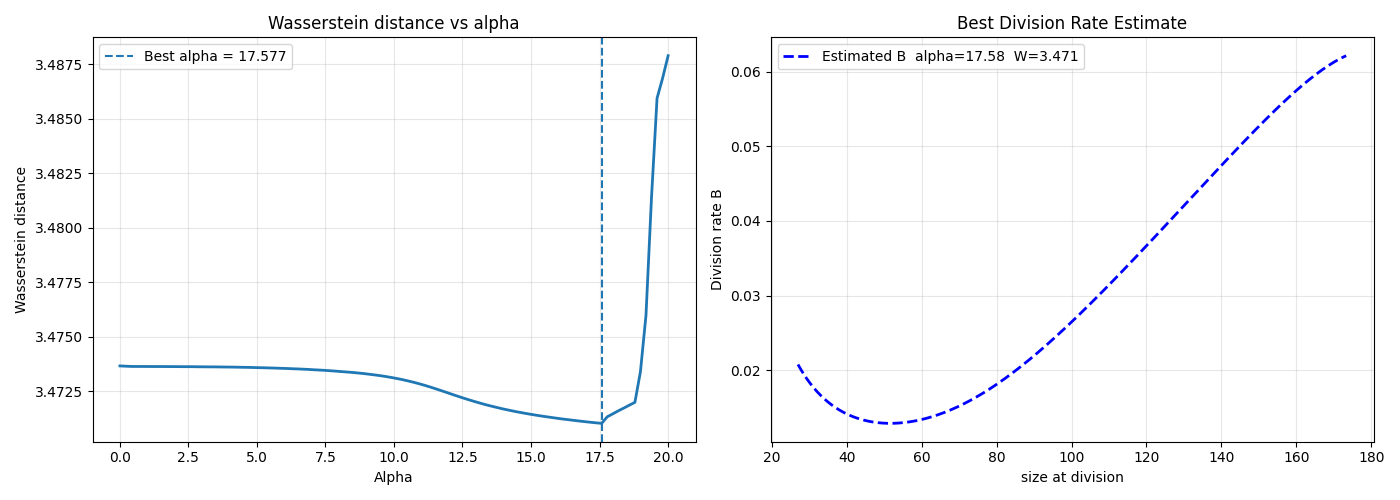
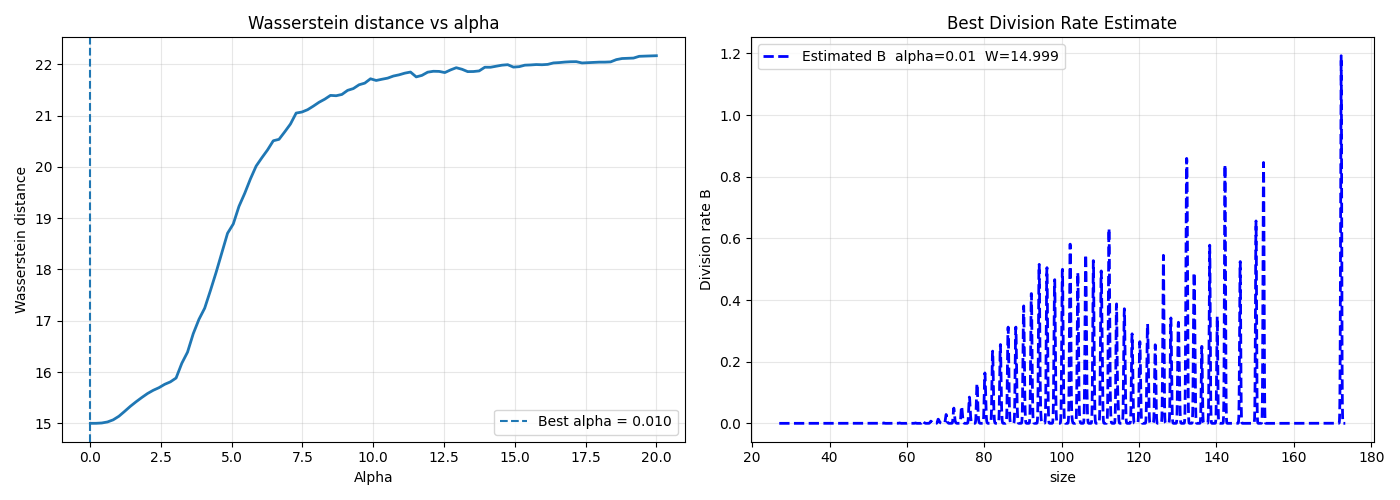
normalized ok but still pb

diff --git a/tmp_estimators.py b/tmp_estimators.py
@@ -19,14 +19,14 @@ def grid_search_alpha(observations, estimator, alpha_grid, simulator, growth_rat
         np.random.seed(42) #same randomness for all samples
         B_hat = estimator(obs, alpha)[1] #[1] for function instead of np.array
         simulated_data = simulator(Xbar=Xbar, v_max=v_max, B_func=B_hat, growth_rate=growth_rate, num_samples=len(obs))[:,0]
-        dist = wasserstein_distance(obs, simulated_data) / np.std(obs)
+        dist = wasserstein_distance(obs, simulated_data) #/ np.std(obs)
         results.append(dist)
 
         if dist < min_dist:
             min_dist = dist
             best_alpha = alpha
             Best_B_hat = B_hat
-    print("normalized minimum distance:", min_dist)
+    print("minimum distance:", min_dist)
     print("best alpha:", best_alpha)
         
     return best_alpha, np.asarray(results), Best_B_hat
@@ -40,11 +40,15 @@ if __name__ == "__main__":
     PATH_LIN = "data/lin_Lydia2901_new_MDJ_ad_sb_sd.txt"
     lin = pd.read_csv(PATH_LIN, header=None, names=["ad", "sb", "sd"])
     real_A = lin["ad"]
+    scale_age = np.std(real_A)
+    real_A_normalized = real_A / scale_age
     real_Xb = lin["sb"]
+    scale_size = np.std(real_Xb)
+    real_Xb_normalized = real_Xb / scale_size
     real_Xd = lin["sd"]
-    a_max = np.max(real_A)
-    Xbar = np.mean(real_Xb)
-    x_max = np.max(real_Xd)
+    a_max = np.max(real_A) / scale_age
+    Xbar = np.mean(real_Xb) / scale_size
+    x_max = np.max(real_Xd) / scale_size
 
     growth_rate = 0.032 #according to regression
     alpha_grid = np.linspace(0.01, 20, 100)
@@ -54,11 +58,13 @@ if __name__ == "__main__":
 
     if test_age:
         #  (we can add the other plots to compare all the distributions!!)
-        best_alpha, dist_hist, Best_B_hat = grid_search_alpha(real_A, B_lineage_age, alpha_grid, simulate_lineage_age, growth_rate, a_max, Xbar)
+        best_alpha, dist_hist, Best_B_hat_normalized = grid_search_alpha(real_A_normalized, B_lineage_age, alpha_grid, simulate_lineage_age, growth_rate, a_max, Xbar)
         output_path = "7_kernel_lineage_age.png"
+        Best_B_hat = lambda a: Best_B_hat_normalized(a / scale_age) / scale_age #un-normalized division rate
         plot_main_results(alpha_grid, dist_hist, best_alpha, real_A, Best_B_hat, output_path, "age")
     
     if test_size:
-        best_alpha, dist_hist, Best_B_hat = grid_search_alpha(real_Xb, B_lineage_size, alpha_grid, simulate_lineage_size, growth_rate, x_max, Xbar)
+        best_alpha, dist_hist, Best_B_hat_normalized = grid_search_alpha(real_Xb_normalized, B_lineage_size, alpha_grid, simulate_lineage_size, growth_rate, x_max, Xbar)
         output_path = "7_kernel_lineage_size.png"
+        Best_B_hat = lambda x: Best_B_hat_normalized(x / scale_size) / scale_size #un-normalized division rate
         plot_main_results(alpha_grid, dist_hist, best_alpha, real_Xb, Best_B_hat, output_path, "size")

diff --git a/plots.py b/plots.py
@@ -93,7 +93,7 @@ def plot_main_results(alpha_grid, dist_hist, best_alpha, real_data, Best_B_hat, 
     axes[1].plot(points, Best_B_hat(points), color="blue", lw=2, ls="--",
                  label=f"Estimated B  alpha={best_alpha:.2f}  W={min_dist:.3f}")
     axes[1].set_title("Best Division Rate Estimate")
-    axes[1].set_xlabel(f"{age_or_size} at division")
+    axes[1].set_xlabel(f"{age_or_size}")
     axes[1].set_ylabel("Division rate B")
     axes[1].grid(alpha=0.3)
     axes[1].legend()
